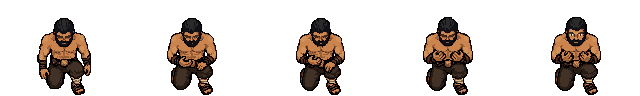
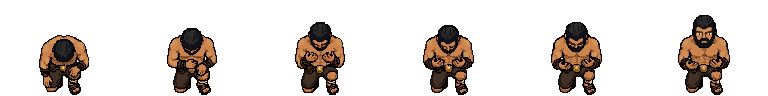
Art: human Vulcan's buckle is gold again, and his kneel is low and hunched like its guide (Task A3 review fix)
The palette had no gold, so the buckle came out in skin tans: four golds
from the chosen picture added to palette.png, the buckle's pixels
repainted in touchup.json; master, idle_F, ref and pictures rebuilt.

kneel_F and look_hands_F remade from H04 with the hunch spelled out:
the kneel is 60 px against 80 standing, as low as the guide (it was
77). look_hands_F is 6 frames, the master's eyes on the last.

For the boss: B07_boss_kneel_F_ref.png and a B07 queue entry with the
standing reference, the hunch and the height to check; the queue's
kneel lesson and recipe line now agree. 58 tests pass.

diff --git a/art/tools/gemini_queue.md b/art/tools/gemini_queue.md
@@ -48,14 +48,22 @@ about 190 px or more tall in a 1376 px picture. They show the poses only: Gemini
   kneeling makes him shorter", build with `--scale-frame 0 --height <the master's>` and cut the standing cell off
   (`art/vulcan_human/notes.md`). Do the same for the boss's kneel (B07) and statue (B06), so the boss and the man under
   his armour kneel at the same size in C3.
+- **A kneel is only low when it is hunched** (human Vulcan's kneel redo, 25 Oct evening): from this camera an upright
+  kneel is nearly as tall as a stand (the front thigh points at the camera and runs down the screen), and Gemini draws
+  every kneel upright unless told otherwise. Spell the hunch out in the prompt: "he kneels LOW and HUNCHED: his back
+  bent far forward, his shoulders slumped, his head hanging low in front of his chest; each kneeling figure is only
+  about two thirds as tall as the standing man, the top of his head level with the standing man's chin". With it,
+  human Vulcan's `kneel_F` came out 60 px against his 80 standing (`H04`, `raw/look_g3a.png`). The boss's knelt frame
+  in B07 must come out as low (about 0.75 of his standing height), or the C3 swap jumps.
 
 ## Clean-up recipes
 
 `P="uv run --with pillow --with numpy --with scipy python"`, run from the project folder. `<c>` is `elvis`,
 `vulcan_boss` or `vulcan_human`; `<H>` is `--height 80` for Elvis, `--height 84 --scale-frame 0` for the boss (the guard
 frame then stands as tall as his master, 84 px from the crown's rim to his feet: compare the body heights the run
-prints), `--height 80 --quant octree` for human Vulcan (`--height 46 --scale-frame 0` for the kneel, which stands about
-0.57 of his height in the guides). Cells: Elvis 240x160, the boss 288x192, human Vulcan 128x96 (the manifests keep them).
+prints), `--height 80 --quant octree` for human Vulcan. A kneel's guide has the master standing first
+(`guide_with_ref.py`): build it with `--scale-frame 0` and the master's height (84 for the boss, 80 for human Vulcan),
+then cut the standing cell off; the knelt body should come out about 0.75 of the standing one. Cells: Elvis 240x160, the boss 288x192, human Vulcan 128x96 (the manifests keep them).
 
 - **R1, one view** (one row, or the rows of one view read left to right, top row first):
   `$P art/sprites.py art/<c>/raw/<raw>.jpeg --cols <figures per row> --rows <rows> --split shapes --anchor body <H>
@@ -118,7 +126,7 @@ prints), `--height 80 --quant octree` for human Vulcan (`--height 46 --scale-fra
 14. **B04** · attach `art/guides/ref_vulcan_boss.png` (image 2) and `art/guides/B04_boss_slam_B.png` (image 1), 16:9 · prompt: "Repaint image 1 as a pixel-art sprite sheet of the character in image 2 (the possessed Vulcan), for a top-down action game. Keep image 1's canvas and layout exactly: 2 rows of 4 figures, at the same positions and the same sizes, and trace EVERY pose exactly, limb by limb, and point his greatsword exactly where the dark grey stick points. Every figure is seen from behind and above, facing away, the crown and its spikes seen from behind; read the rows left to right, top row first (8 figures). The poses, in order: guard (the sword low at his right side), rising, the blade raised up behind his head, falling, impact (the blade lands flat along the ground ahead of him and to his right), held, lift, guard. Only replace each grey mannequin with the possessed Vulcan, drawn in the exact pixel-art style, proportions, colours, dark 1 px outline and details of image 2: charcoal stone skin with glowing orange lava cracks, molten orange eyes, near-black hair and beard, a black iron crown seen from above with spikes and red gems, spiked black pauldrons, a cuirass with a diagonal strap, a war skirt, vambraces and greaves, a huge greatsword with a lava-veined blade. The same size in every figure. Flat #FF00FF magenta background everywhere, with magenta all round each figure. Draw nothing else: no text, no numbers, no ground, no shadows, no extra figures, no copy of image 2." · expect: 2 rows of 4 figures on magenta · then: save `art/vulcan_boss/raw/slam_B_g1.jpeg`; recipe R1; `slam_B`: 8 frames, 10 fps, no loop, holds `{"2": 0.15, "4": 0.2}` (the raise, the impact).
 15. **B05** · attach `art/guides/ref_vulcan_boss.png` (image 2) and `art/guides/B05_boss_slam_S.png` (image 1), 16:9 · prompt: "Repaint image 1 as a pixel-art sprite sheet of the character in image 2 (the possessed Vulcan), for a top-down action game. Keep image 1's canvas and layout exactly: 2 rows of 4 figures, at the same positions and the same sizes, and trace EVERY pose exactly, limb by limb, and point his greatsword exactly where the dark grey stick points. Every figure is seen from the side and above, facing right, one eye drawn; read the rows left to right, top row first (8 figures). The poses, in order: guard (the sword low at his right side), rising, the blade raised up behind his head, falling, impact (the blade lands flat along the ground ahead of him and to his right), held, lift, guard. Only replace each grey mannequin with the possessed Vulcan, drawn in the exact pixel-art style, proportions, colours, dark 1 px outline and details of image 2: charcoal stone skin with glowing orange lava cracks, molten orange eyes, near-black hair and beard, a black iron crown seen from above with spikes and red gems, spiked black pauldrons, a cuirass with a diagonal strap, a war skirt, vambraces and greaves, a huge greatsword with a lava-veined blade. The same size in every figure. Flat #FF00FF magenta background everywhere, with magenta all round each figure. Draw nothing else: no text, no numbers, no ground, no shadows, no extra figures, no copy of image 2." · expect: 2 rows of 4 figures on magenta · then: save `art/vulcan_boss/raw/slam_S_g1.jpeg`; recipe R1; `slam_S`: 8 frames, 10 fps, no loop, holds `{"2": 0.15, "4": 0.2}` (the raise, the impact).
 16. **B06** · attach `art/guides/ref_vulcan_boss.png` (image 2) and `art/guides/B06_boss_wake_F.png` (image 1), 16:9 · prompt: "Repaint image 1 as a pixel-art sprite sheet of the character in image 2 (the possessed Vulcan), for a top-down action game. Keep image 1's canvas and layout exactly: 2 rows of 4 figures (the 8th repeats the 7th), at the same positions and the same sizes, and trace EVERY pose exactly, limb by limb, and point his greatsword exactly where the dark grey stick points. Every figure is seen from the front and above, facing the viewer, both eyes clearly drawn (each a dark pupil with a light catch-light); read the rows left to right, top row first (8 figures). The poses, in order: 1 kneeling on his right knee, the left palm on his raised left knee, head bowed (a statue: draw him in his own colours, the game turns him to stone); 2 the head lifts; 3 the stone bursts: still on his knee, chest up, arms flung out to the sides; 4 rising off the knee, half up; 5 standing, both arms raised high, the hands open and empty; 6 the greatsword appears in the raised right fist; 7 his guard, the sword low at his right side; 8 the same guard again. Only replace each grey mannequin with the possessed Vulcan, drawn in the exact pixel-art style, proportions, colours, dark 1 px outline and details of image 2: charcoal stone skin with glowing orange lava cracks, molten orange eyes, near-black hair and beard, a black iron crown seen from above with spikes and red gems, spiked black pauldrons, a cuirass with a diagonal strap, a war skirt, vambraces and greaves, a huge greatsword with a lava-veined blade. The same size in every figure. Flat #FF00FF magenta background everywhere, with magenta all round each figure. Draw nothing else: no text, no numbers, no ground, no shadows, no extra figures, no copy of image 2." · expect: 2 rows of 4 figures (the 8th repeats the 7th) on magenta · then: save `art/vulcan_boss/raw/wake_F_g1.jpeg`; recipe R1; `wake_F`: 7 frames (`--pick 0,1,2,3,4,5,6`), 6 fps, no loop, holds `{"0": 0.5, "1": 0.4, "5": 0.4}`; `statue_F` = frame 0 alone (1 frame: `--pick 0`). Kneeling, his crown is lower than the standing master's: give its row to the code lane (`Vulcan.HEAD`, PROGRESS Task 6).
-17. **B07** · attach `art/guides/ref_vulcan_boss.png` (image 2) and `art/guides/B07_boss_kneel_F.png` (image 1), 16:9 · prompt: "Repaint image 1 as a pixel-art sprite sheet of the character in image 2 (the possessed Vulcan), for a top-down action game. Keep image 1's canvas and layout exactly: 2 rows of 3 figures, at the same positions and the same sizes, and trace EVERY pose exactly, limb by limb, and point his greatsword exactly where the dark grey stick points. Every figure is seen from the front and above, facing the viewer, both eyes clearly drawn (each a dark pupil with a light catch-light); read the rows left to right, top row first (6 figures). The poses, in order: sinking to his right knee, his right hand on the hilt of the greatsword planted on its tip ahead and to his right, his head bowing, the last figure fully knelt and still. Only replace each grey mannequin with the possessed Vulcan, drawn in the exact pixel-art style, proportions, colours, dark 1 px outline and details of image 2: charcoal stone skin with glowing orange lava cracks, molten orange eyes, near-black hair and beard, a black iron crown seen from above with spikes and red gems, spiked black pauldrons, a cuirass with a diagonal strap, a war skirt, vambraces and greaves, a huge greatsword with a lava-veined blade. The same size in every figure. Flat #FF00FF magenta background everywhere, with magenta all round each figure. Draw nothing else: no text, no numbers, no ground, no shadows, no extra figures, no copy of image 2." · expect: 2 rows of 3 figures on magenta · then: save `art/vulcan_boss/raw/kneel_F_g1.jpeg`; recipe R1; `kneel_F`: 6 frames, 8 fps, no loop, the last held (hold `{"5": 1.0}`). Give the knelt crown row to the code lane (`Vulcan.HEAD`).
+17. **B07** · attach `art/guides/ref_vulcan_boss.png` (image 2) and `art/guides/B07_boss_kneel_F_ref.png` (image 1: his master standing in front of the 6 mannequins at their scale, `guide_with_ref.py art/vulcan_boss/master.png <boss_kneel_F strip> art/guides/B07_boss_kneel_F_ref.png --scale 2 --master-scale 3`; the old packed `B07_boss_kneel_F.png` has no standing figure, so Gemini would kneel him as tall as he stands), 4:1 · prompt: "Image 1 is a pose guide for a top-down action game: on the far left the possessed Vulcan himself standing, then 6 grey mannequins in a row, all seen from the same high top-down three-quarter camera. Repaint image 1 as a pixel-art sprite sheet: keep the standing figure on the far left exactly as he is, and replace each mannequin with this exact character in that mannequin's pose, at its position and size, and point his greatsword exactly where the dark grey stick points. Every figure is seen from the front and above, facing the viewer, both eyes clearly drawn (each a dark pupil with a light catch-light) where his head is up. The 6 poses, left to right: sinking to his right knee, his right hand on the hilt of the greatsword planted on its tip ahead and to his right, his head bowing; the last two figures fully knelt, LOW and HUNCHED, spent: his back bent far forward over his knee, his shoulders slumped, his head hanging low in front of his chest, each only about two thirds as tall as the standing figure, the top of his crown level with the standing figure's chin. He keeps the standing figure's head, crown and shoulder size; kneeling only makes him shorter. Only replace each grey mannequin with the possessed Vulcan, drawn in the exact pixel-art style, proportions, colours, dark 1 px outline and details of image 2: charcoal stone skin with glowing orange lava cracks, molten orange eyes, near-black hair and beard, a black iron crown seen from above with spikes and red gems, spiked black pauldrons, a cuirass with a diagonal strap, a war skirt, vambraces and greaves, a huge greatsword with a lava-veined blade. The same size in every figure. Flat #FF00FF magenta background everywhere, with magenta all round each figure. Draw nothing else: no text, no numbers, no ground, no shadows, no extra figures, no copy of image 2." · expect: 1 row of 7 figures on magenta · then: save `art/vulcan_boss/raw/kneel_F_g1.png`; recipe R1 with `--cols 7 --rows 1 --height 84 --scale-frame 0` into `art/_work/`, then cut the standing cell off (cells 1-6, as `art/vulcan_human/notes.md`); `kneel_F`: 6 frames, 8 fps, no loop, the last held (hold `{"5": 1.0}`). The last frame's body should be about 0.75 of the standing one (the run prints the heights), as low and hunched as human Vulcan's `kneel_F` (60 px against his 80), so the C3 swap to the man doesn't jump: check with `bot=unmask fast`, frames 300 and 330 (`docs/progress/2026-10-25_human_c3_in_game.png`). If it comes back upright and tall, remake it rather than keep it. Give the knelt crown row to the code lane (`Vulcan.HEAD`).
 
 ### The boss: slash, backswing, spell, breath, dive, charge, flinch, roar (priority 3)
 
@@ -158,13 +166,13 @@ prints), `--height 80 --quant octree` for human Vulcan (`--height 46 --scale-fra
 
 ### Human Vulcan: kneel, look at his hands (priority 5)
 
-48. **H01** · attach `art/guides/ref_vulcan_human.png` (image 2) and `art/guides/H01_human_kneel_look_hands_F.png` (image 1), 16:9 · prompt: "Repaint image 1 as a pixel-art sprite sheet of the character in image 2 (Vulcan as a man), for a top-down action game. Keep image 1's canvas and layout exactly: 1 row of 3 figures, at the same positions and the same sizes, and trace EVERY pose exactly, limb by limb. Every figure is seen from the front and above, facing the viewer, both eyes clearly drawn (each a dark pupil with a light catch-light); read the rows left to right, top row first (3 figures). The poses, in order: kneeling on his right knee, the left palm on his raised left knee; both hands rising in front of his chest, palms up; his head bowed, looking down at his hands. Only replace each grey mannequin with Vulcan as a man, drawn in the exact pixel-art style, proportions, colours, dark 1 px outline and details of image 2: tan skin, short near-black hair swept back, a full near-black beard, a bare chest with chest hair, brown wrist wraps, a belt with a golden lion-head buckle and a pouch, baggy dark brown trousers, cream calf wraps, sandals. The same size in every figure. Flat #FF00FF magenta background everywhere, with magenta all round each figure. Draw nothing else: no text, no numbers, no ground, no shadows, no extra figures, no copy of image 2." · expect: 1 row of 3 figures on magenta · then: save `art/vulcan_human/raw/kneel_look_hands_F_g1.jpeg`; recipe R1; `kneel_F` = frame 0 (1 frame, `--pick 0`); `look_hands_F`: 3 frames, 3 fps, no loop, the last held. **Done** (25 Oct, Higgsfield) from `art/guides/H03_human_kneel_look_hands_F_ref.png` instead: the boss's kneel pose, with the master standing beside the mannequins for scale; see `art/vulcan_human/notes.md`.
+48. **H01** · attach `art/guides/ref_vulcan_human.png` (image 2) and `art/guides/H01_human_kneel_look_hands_F.png` (image 1), 16:9 · prompt: "Repaint image 1 as a pixel-art sprite sheet of the character in image 2 (Vulcan as a man), for a top-down action game. Keep image 1's canvas and layout exactly: 1 row of 3 figures, at the same positions and the same sizes, and trace EVERY pose exactly, limb by limb. Every figure is seen from the front and above, facing the viewer, both eyes clearly drawn (each a dark pupil with a light catch-light); read the rows left to right, top row first (3 figures). The poses, in order: kneeling on his right knee, the left palm on his raised left knee; both hands rising in front of his chest, palms up; his head bowed, looking down at his hands. Only replace each grey mannequin with Vulcan as a man, drawn in the exact pixel-art style, proportions, colours, dark 1 px outline and details of image 2: tan skin, short near-black hair swept back, a full near-black beard, a bare chest with chest hair, brown wrist wraps, a belt with a golden lion-head buckle and a pouch, baggy dark brown trousers, cream calf wraps, sandals. The same size in every figure. Flat #FF00FF magenta background everywhere, with magenta all round each figure. Draw nothing else: no text, no numbers, no ground, no shadows, no extra figures, no copy of image 2." · expect: 1 row of 3 figures on magenta · then: save `art/vulcan_human/raw/kneel_look_hands_F_g1.jpeg`; recipe R1; `kneel_F` = frame 0 (1 frame, `--pick 0`); `look_hands_F`: 3 frames, 3 fps, no loop, the last held. **Done** (25 Oct, Higgsfield) from `art/guides/H03_human_kneel_look_hands_F_ref.png` instead: the boss's kneel pose, with the master standing beside the mannequins for scale; **remade** (25 Oct evening) from `H04` with the hunch spelled out, so the kneel is low (60 px of 80) like the guide; see `art/vulcan_human/notes.md`.
 
 ## Made without Gemini (no picture needed)
 
 - The boss's `idle_F`: `breathe.py` on his master. His `walk_F` and `walk_B`: `stride.py` from `idle_F` and `idle_B`
   (after B01). Elvis's `walk_F` and `walk_B`: `stride.py` from his idles (the runs' recipes, slower, half the lift). (Superseded 25 Oct: all three walks are Higgsfield sheets.)
-- `statue_F` is the wake's first frame (B06); human Vulcan's `kneel_F` is H01's first frame.
+- `statue_F` is the wake's first frame (B06); human Vulcan's `kneel_F` is `look_hands_F`'s first frame.
 - Already in the game: Elvis's idle and run (F, S, B), `light1_S`, `light1_B`.
 
 The guides are rebuilt with `pose_strip.py --batch art/tools/guide_jobs.json` (74 strips; the paths are the main

diff --git a/docs/PROGRESS.md b/docs/PROGRESS.md
@@ -47,26 +47,29 @@ The 2.5D pixel-art version of Tales of Vulcan, in the style of Alabaster Dawn, w
 ![Elvis's walks, front, side and back, 4x](progress/2026-10-25_elvis_walks.gif)
 ![The back run in the game, 3x crops of frames 100-200 of the bot's fight](progress/2026-10-25_elvis_run_B_in_game.png)
 
-### 25 Oct 2026: human Vulcan redrawn from the game camera, and his C3 kneel and look at his hands (Task A3, Higgsfield)
+### 25 Oct 2026: human Vulcan redrawn from the game camera, and his C3 kneel and look at his hands (Task A3, Higgsfield; review fix: the gold buckle and a low kneel)
 - **What:**
-  - **His master** is redrawn from the game's high camera, like Elvis: the top of his head and his swept-back near-black hair seen from above, the tops of his shoulders, short foreshortened legs, the feet from above, and a big head (about a quarter of his height), so his eyes (each a cream white, a pupil and a catch-light, redrawn by hand), brows, beard, the gold lion buckle, the pouch, the wraps and the sandals all read at 80 px. A new palette (28 colours) and a breathing `idle_F` (holds 0.3/0.2 s, like Elvis's).
-  - **`kneel_F`** (C3 shot 4): he kneels in his trousers where the armour fell, head bowed, right hand on his thigh, left arm by his raised knee: the body of the boss's kneel guide (B07's last pose), so the swap from the knelt boss doesn't jump.
-  - **`look_hands_F`** (C3 shot 7): from that kneel his right hand comes to his belly, both hands rise palms up to his chest, he stares at them (held 0.8 s), then lifts his head, eyes open (held to the lines). 5 frames, 4 fps, no loop.
+  - **His master** is redrawn from the game's high camera, like Elvis: the top of his head and his swept-back near-black hair seen from above, the tops of his shoulders, short foreshortened legs, the feet from above, and a big head (about a quarter of his height), so his eyes (each a cream white, a pupil and a catch-light, redrawn by hand), brows, beard, the gold lion buckle, the pouch, the wraps and the sandals all read at 80 px. A new palette (32 colours) and a breathing `idle_F` (holds 0.3/0.2 s, like Elvis's).
+  - **Review fix, the buckle:** the first palette had no gold, so the buckle came out in skin tans, a skin-coloured lump at his waist. Four golds were added to `palette.png` and the buckle's pixels repainted from the chosen picture's own gold (`touchup.json`); the master, `idle_F`, `master_x4.png`, the reference `art/guides/ref_vulcan_human.png` and the picture below were rebuilt. Nothing else in the master changed.
+  - **`kneel_F`** (C3 shot 4), **remade after the review:** he kneels in his trousers where the armour fell, spent, bent far over his knee with his head hanging so only his hair shows, his right arm hanging by the knee: the body of the boss's kneel guide (B07's last pose), 60 px tall against his 80 standing, as low as the guide. The first one knelt upright, 77 px tall, so it would have jumped against a hunched boss.
+  - **`look_hands_F`** (C3 shot 7): from that kneel his right hand comes to his belly, both hands rise palms up to his chest, he stares at them (held 0.8 s), straightens a little, then lifts his head and looks at the viewer, eyes open (held to the lines). 6 frames, 4 fps, no loop.
+  - **For the boss's kneel:** `art/guides/B07_boss_kneel_F_ref.png` (his master standing in front of B07's mannequins) and a new B07 entry in `art/tools/gemini_queue.md` that asks for the same low hunch and says how low his knelt frame must come out to match the man. The queue's lesson and its recipe line for kneels now agree (the old "`--height 46`" line is gone).
   - **A new tool, `art/tools/guide_with_ref.py`:** a pose guide with the master standing in front of the mannequins at the guide's scale. Gemini painted the kneel as big as a man standing until it saw the two side by side; with it the kneeling man has the master's head and shoulders, and the sheet takes its scale from the standing figure (`--scale-frame 0`), which is then cut off. The lesson is in `art/tools/gemini_queue.md` for the boss's kneel and statue.
 - **Why:** the reviewers found human Vulcan drawn front-on at eye level, so he didn't match Elvis; his kneel and look at his hands were the last of his moves (plan Task A3, priority 5).
-- **Where:** `art/vulcan_human/` (`master.png`, `palette.png`, `touchup.json`, `idle_F.png`, `kneel_F.png`, `look_hands_F.png`, `touchup_look_hands.json`, `manifest.json`, `notes.md` with every candidate, prompt and command, `raw/`), `art/guides/H02_*` and `H03_*`, `HK Human Kneel` in `art/tools/hand_keys.json`.
-- **How:** Higgsfield `nano_banana_2_1` (Google's Gemini image model), 1k, 1.5 credits a picture: 8 master candidates and 6 strips (21 credits). The references went up with Higgsfield's upload; no browser.
-- **Checked:** at 1x, 3x and 4x beside his idle: the same man in every frame, the same trousers, wraps and sandals, the palette locked. `bot=unmask fast`: the man kneels on the plinth where the armour burned, at Elvis's scale (picture). 58 tests pass.
+- **Where:** `art/vulcan_human/` (`master.png`, `palette.png`, `touchup.json`, `idle_F.png`, `kneel_F.png`, `look_hands_F.png`, `touchup_look_hands.json`, `manifest.json`, `notes.md` with every candidate, prompt and command, `raw/`), `art/guides/H02_*`, `H03_*`, `H04_*` and `B07_boss_kneel_F_ref.png`, `HK Human Kneel` in `art/tools/hand_keys.json`, `art/tools/gemini_queue.md` (the kneel lesson, the recipe line, B07, H01).
+- **How:** Higgsfield `nano_banana_2_1` (Google's Gemini image model), 1k, 1.5 credits a picture: 8 master candidates and 6 strips (21 credits), then for the review fix 3 kneel strips and 2 edits (7.5 credits). The references went up with Higgsfield's upload; no browser.
+- **Checked:** at 1x, 3x and 4x beside his idle: the same man in every frame, the same trousers, wraps and sandals, the buckle gold in every frame, alpha only 0 or 255, no magenta, every colour in `palette.png`, feet on row 94 like the idle. `bot=unmask fast` (frames 300, 330, 880, 1000, picture): the man kneels hunched where the armour burned, at Elvis's scale, then looks at his hands and up for "Who... am I?". 58 tests pass.
 - **Claude's call:** master `h5b` of 8 candidates (`art/vulcan_human/candidates_x4.png`): the one that matched Elvis's camera and head size; the rest were front-on, or from above with a head too small to show his eyes at 80 px.
-- **Claude's call:** the kneel is drawn at his standing scale (the same head and shoulders), so it stands 77 px tall against his 80: Gemini keeps the head upright so his face reads. Scaled to a truly foreshortened kneel (about 46 px tall), his head came out about 40% narrower: a different man.
-- **Claude's call:** the look ends on his head up, his hands still raised, looking ahead, not up at the sky: Gemini's last figure sat back on both knees (its legs changed), so it was left out.
-- **Not checked:** the swap against the boss's own kneel: the boss has no `kneel_F` yet (he stands in his idle until he does). Whoever makes B07 should use `guide_with_ref.py` the same way, so both kneel at the same size.
+- **Claude's call:** the buckle's four golds are the chosen picture's own (its light, mid, dark and darkest gold), not new colours; at 7x7 px it reads as a round gold buckle, not a lion's head.
+- **Claude's call:** kneel strip `look_g3a` of 3: the only one drawn from the guide's camera with the guide's low hunch; `g3b` knelt upright again and `g3c` turned him to the side.
+- **Claude's call:** the last frame (head up) is as tall as he stands, 80 px. From this camera an upright kneel is nearly a stand (the front thigh points at the camera and runs down the screen); only the hunch makes the kneel low. Two edits asking Gemini for a lower head-up figure came back just as tall. So the low frame is the first one, the frame the boss's kneel must match, and he straightens up after the swap, as he looks at his hands. His eyes on that frame are the master's (`eyes.py`).
+- **Not checked:** the swap against the boss's own kneel: the boss has no `kneel_F` yet (he stands in his idle until he does). B07 in `art/tools/gemini_queue.md` now carries the standing reference, the hunch and the height to check (about 0.75 of his standing height, like the man's 60 of 80).
 
 ![Human Vulcan's new master beside Elvis and the boss, 4x](progress/2026-10-25_human_master_redo.png)
 
 ![Human Vulcan: idle, kneel, look at his hands (4x)](progress/2026-10-25_human_kneel_look_hands_F.gif)
 
-![C3 in the game: the man kneeling where the armour burned, then Elvis walks to the crown](progress/2026-10-25_human_c3_in_game.png)
+![C3 in the game, 3x: the boss before the burn (he has no kneel sheet yet), the man kneeling hunched where the armour burned, looking at his hands, looking up](progress/2026-10-25_human_c3_in_game.png)
 
 ### 25 Oct 2026: the C3 skip command works in PowerShell (Task 6 second review fix)
 - **What:** `docs/NEXT.md`'s command to skip the fight and see C3 now starts with `& ` and says to run it in PowerShell, with a note to leave the `& ` out in Command Prompt.

diff --git a/art/vulcan_human/notes.md b/art/vulcan_human/notes.md
@@ -29,11 +29,68 @@ uv run --with pillow --with numpy --with scipy python art/sprites.py art/vulcan_
 ```
 
 (With no `palette.png` it writes a new one that includes the touch-up colours; every later sheet locks to it.)
+
+**The buckle's gold (review fix, 25 Oct evening):** the first `palette.png` (28 colours, median cut) had no gold, so the
+lock turned the buckle (rows 45-51, x 24-30) into skin tans: a skin-coloured lump at the waist. Four golds were added
+(`#eecb6a`, `#cb9a39`, `#a06a1e`, `#6f4410`, now 32 colours), and `touchup.json` repaints the buckle's 44 pixels from
+`h5b`'s own octree shrink (its light, mid, dark and darkest gold mapped to those four), plus two pixels that the lock
+would otherwise move (`(6, 22)`, and `(38, 66)`, which snapped to gold). The command above now rebuilds the master
+exactly, buckle apart; `idle_F.png` (`breathe.py`) and `art/guides/ref_vulcan_human.png` (the master at 4x on #FF00FF,
+at the same place) were rebuilt from it.
+
 `touchup.json`: each eye is 3x2 px on rows 18-19 (x 21-23 and 31-33, symmetric about the nose at x 27): a cream white
 `#dac695`, a dark pupil `#331809` 2 px tall and a catch-light `#fff6e0` at its top right, with skin shadow `#b77448`
 between the eye and the nose; the brows above (row 17) are the hair's brown `#423127`, so the pupils don't merge into them.
 
-## `kneel_F` and `look_hands_F` (C3, 25 Oct 2026, Higgsfield)
+## `kneel_F` and `look_hands_F`, remade low and hunched (C3, review fix, 25 Oct 2026 evening, Higgsfield)
+
+The first build (below) knelt upright, 77 px tall against 80 standing, where its guide is hunched far forward. Remade so
+the kneel follows the guide, the same body as the boss's B07 last pose.
+
+- **The guide:** `art/guides/H04_human_kneel_look_hands_F_ref.png`, H03 again with the gold-buckle master:
+  `guide_with_ref.py art/vulcan_human/master.png <human_kneel_look_F strip> art/guides/H04_human_kneel_look_hands_F_ref.png
+  --scale 6 --master-scale 7` (the strip is `HK Human Kneel` from `pose_strip.py`, F, no prop, cell 256, chunky).
+- **Raws** (`nano_banana_2_1`, 1k, 4:1): `look_g3a`, `look_g3b` (H04 + `guides/ref_vulcan_human.png`), `look_g3c` (H04
+  only). The prompt is H03's with the kneel spelled out: "he kneels LOW and HUNCHED, exhausted: one knee on the
+  ground, the other foot planted, his back bent far forward, his shoulders slumped, his head hanging low in front of
+  his chest. Each kneeling figure is only about two thirds as tall as the standing man: the top of his head is level
+  with the standing man's chin ... kneeling only makes him shorter", then the 6 poses in order. **`look_g3a` chosen:**
+  the only one drawn from the guide's camera (front and above, like the master), its first kneel hunched as low as the
+  mannequin's, head hanging so the top of his hair shows. `g3b` knelt upright again; `g3c` turned him three-quarters
+  to the side. `look_g3a_e1`, `_e2`: two edits of `g3a` asking for its last figure at the 6th figure's height with his
+  head up; Gemini drew it as tall both times, so they are not used.
+- **Clean-up:**
+  ```
+  P="uv run --with pillow --with numpy --with scipy python"
+  python3 -c "import json; t = json.load(open('art/vulcan_human/touchup.json')); \
+      json.dump([v for v in t if v[2] < 32 and 15 <= v[1] < 40], open('art/_work/human_eyes_touchup.json', 'w'))"
+  $P art/tools/eyes.py art/_work/look7.png --cell 128 96 --master art/vulcan_human/master.png \
+      --master-touchup art/_work/human_eyes_touchup.json --head 15 0 40 32 --frames 6 \
+      --out art/vulcan_human/touchup_look_hands.json      # run once on a build without --touchup first
+  cp art/vulcan_human/manifest.json art/_work/man_tmp.json
+  $P art/sprites.py art/vulcan_human/raw/look_g3a.png --cols 7 --rows 1 --split shapes --anchor body --height 80 \
+      --scale-frame 0 --quant octree --palette art/vulcan_human/palette.png \
+      --touchup art/vulcan_human/touchup_look_hands.json --out art/_work/look7.png --manifest art/_work/man_tmp.json \
+      --key tmp --no-loop
+  $P -c "from PIL import Image; s = Image.open('art/_work/look7.png'); \
+      s.crop((128, 0, 896, 96)).save('art/vulcan_human/look_hands_F.png'); \
+      s.crop((128, 0, 256, 96)).save('art/vulcan_human/kneel_F.png')"
+  ```
+  (`eyes.py` takes only the eye and brow touch-ups: the buckle's are outside the head box.) Body heights at the
+  standing man's scale: standing 80, then 60, 67, 73, 70, 73, 80. `touchup_look_hands.json`: the master's eyes on the
+  last frame (head up), where Gemini drew flat 4 px whites; the bowed frames keep Gemini's downcast eyes.
+- **The move:** `kneel_F` = `look_hands_F`'s first frame: knelt and spent, 60 px tall (0.75 of standing, the guide's
+  0.65-0.75), bent far over his knee, his head hanging so only his hair shows, his right arm hanging by the knee.
+  `look_hands_F`: 6 frames at 4 fps, holds 0.3 s on the kneel, 0.8 s on the stare (frame 3), 0.5 s on the last: the
+  right hand to his belly, both hands rise palms up, he stares at them, straightens a little, then lifts his head and
+  looks at the viewer, eyes open. It doesn't loop, so the last frame stays through the two lines.
+- **Why the last frame is as tall as he stands:** from this camera an upright kneel is nearly a stand. The front thigh
+  points at the camera and so runs down the screen, and the camera shows the head from above either way: a rough
+  estimate at the game's 48.6° camera puts a man kneeling upright on one knee at nearly all of his standing height on
+  screen (Gemini drew him at 77-80 px every time). Only the hunch (his head
+  down over his knee) makes the kneel low, so the first frame, the one the boss's kneel must match, is the low one.
+
+## The first `kneel_F` and `look_hands_F` (C3, 25 Oct 2026, Higgsfield; replaced)
 
 - **The guide:** `HK Human Kneel` in `art/tools/hand_keys.json`: the body of the boss's `HK Kneel` last pose (Pick Up
   Kneeling 25, spine 15; B07's last cell), so the man under the burning armour kneels as the boss does; his right hand
